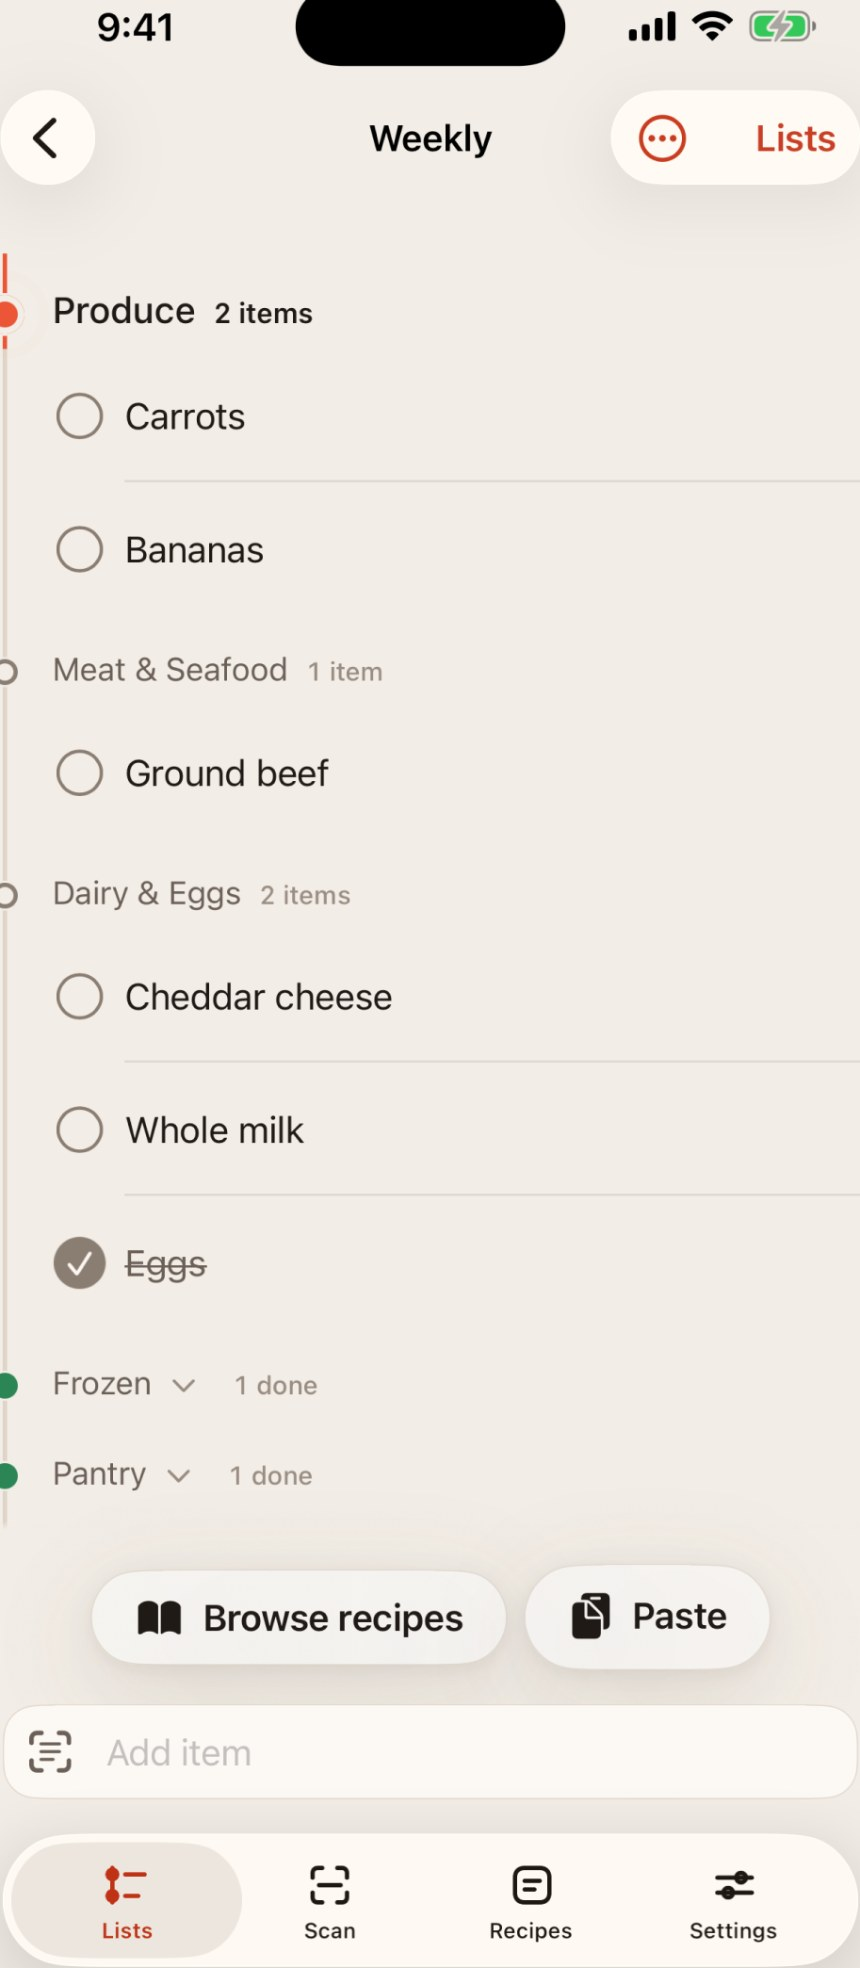
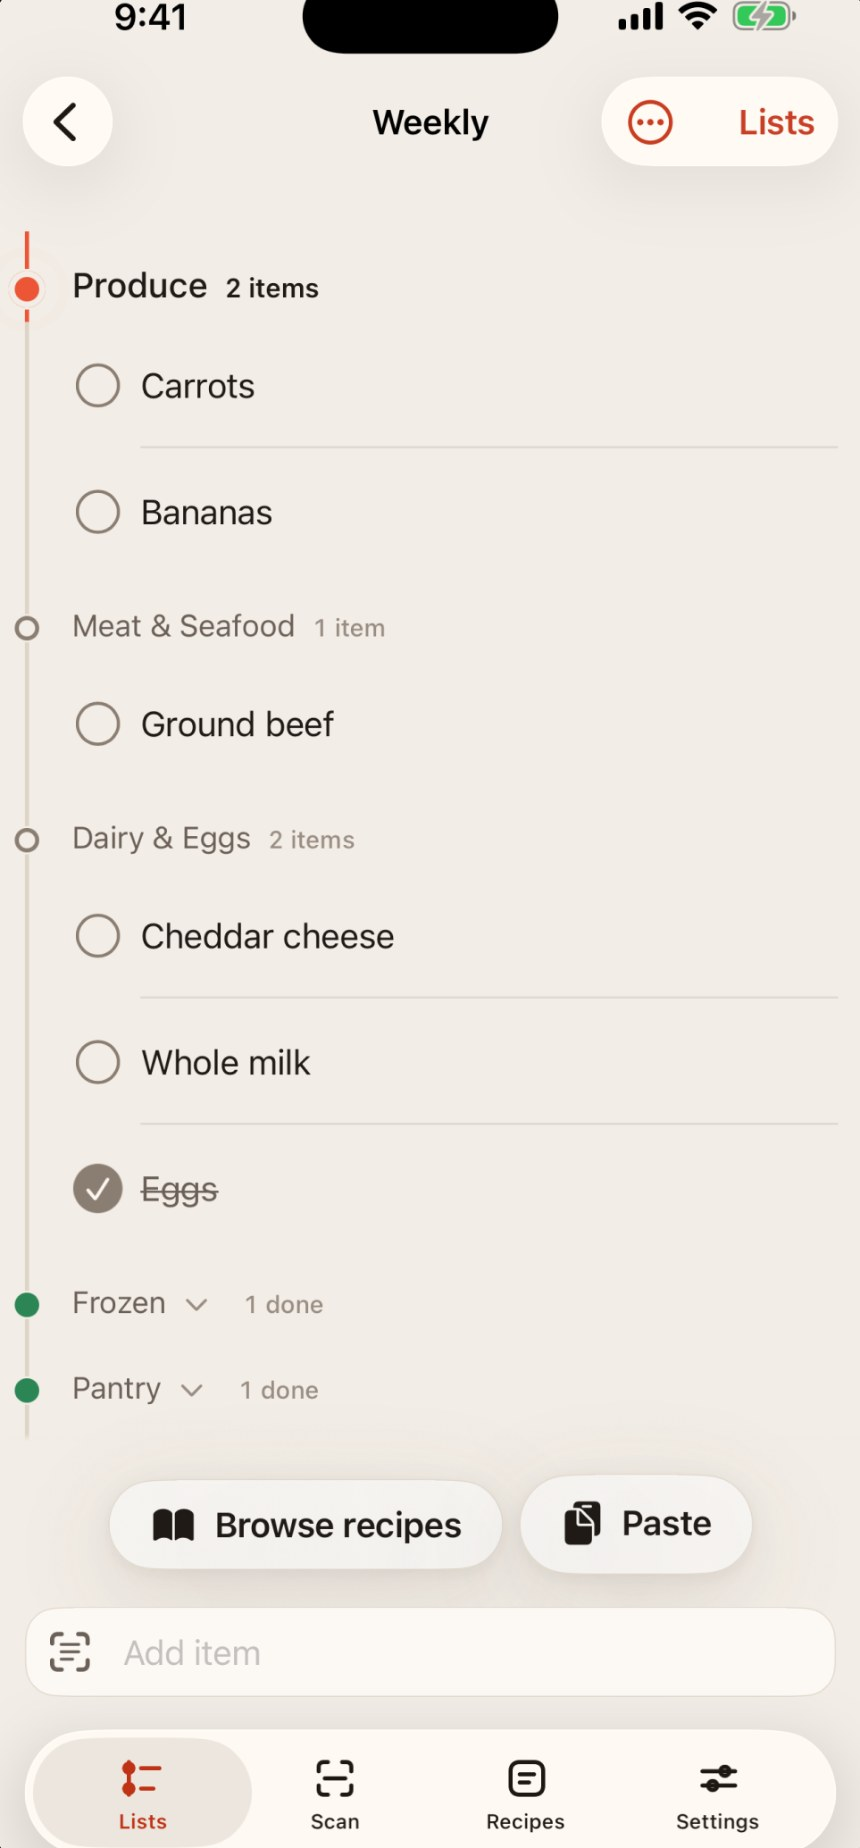
Fix double iPhone bezel on home teaser + clipped timeline dots
Ryan's screenshots caught two real bugs:

1. The home page's Copia teaser card was double-framed -- it wraps its
   image in PhoneShot's own bezel, but shared the same asset file as
   the case study's hero after that switched to the full App Store
   marketing frame (which has its own bezel baked in). Gave the teaser
   its own screen-content-only crop (copia-teaser-screen.jpg) so
   PhoneShot's bezel is the only one again.

2. Decision 1's shopping-screen crop clipped the left-edge category
   timeline (the colored dots next to Produce/Meat & Seafood/etc) in
   half -- the uniform inset used to keep the display's rounded
   corners out of frame cut too close on this particular screen, where
   real UI sits nearer the true edge. Re-cropped with a smaller left/
   right inset and a larger top/bottom one to compensate.

Claude-Session: https://claude.ai/code/session_01XEkgzxDcBknc2Tp3oGGt8n

diff --git a/src/components/CardArt.jsx b/src/components/CardArt.jsx
@@ -1,7 +1,7 @@
 import Particles from '@/components/reactbits/Particles/Particles';
 import InViewMount from './InViewMount';
 import PhoneShot from './PhoneShot';
-import copiaHomeDark from '@/assets/copia-home-dark.jpg';
+import copiaTeaserScreen from '@/assets/copia-teaser-screen.jpg';
 import pickTheOddsScreenshot from '@/assets/picktheodds.png';
 
 // 03 PickTheOdds -- RESOLUTION CAP (Ryan: "can we ensure that all pictures
@@ -52,9 +52,22 @@ export function PickTheOddsCardArt() {
 // pitch (this case study's own title: "A Grocery List Built for the Aisle,
 // Not the Desk") is the grocery-list/route experience, not recipes --
 // recipes are one feature among several, not the thing being sold. Now
-// shows copia-home-dark.jpg, the same real capture already used to open the
-// case study's own hero, so the card and the page it links to lead with the
-// same screen rather than two different first impressions of the app.
+// shows the same Lists screen already used to open the case study's own
+// hero, so the card and the page it links to lead with the same screen
+// rather than two different first impressions of the app.
+//
+// DOUBLE-BEZEL FIX (Ryan: "take the marketing photo out of the iphone frame
+// since there is an iphone frame in the picture already"): the case study's
+// hero later switched from a screen-only crop to the actual App Store
+// marketing frame (its own coral background + headline + device bezel
+// baked in) -- since this teaser shares that same "Lists screen" intent but
+// still wraps its image in PhoneShot's OWN bezel, reusing that same
+// full-frame asset here double-framed it (PhoneShot's metal chassis drawn
+// around an image that already has a bezel drawn into it). This teaser now
+// points at `copia-teaser-screen.jpg` -- a dedicated screen-content-only
+// crop of the same Lists screen, no baked-in frame -- so PhoneShot's bezel
+// is the only one. Keep these two assets separate: don't repoint this at
+// copia-home-dark.jpg again.
 
 // 01 Copia (grocery/recipe iOS app) -- COPIA CASE STUDY (Addendum 4):
 // deliberately NOT another live reactbits.dev canvas. This card's whole
@@ -74,7 +87,7 @@ export function CopiaTeaserArt() {
   return (
     <div className="copia-teaser" aria-hidden="true">
       <div className="copia-teaser__grain" />
-      <PhoneShot src={copiaHomeDark} alt="" />
+      <PhoneShot src={copiaTeaserScreen} alt="" />
     </div>
   );
 }

diff --git a/src/routes/CopiaCaseStudy.jsx b/src/routes/CopiaCaseStudy.jsx
@@ -85,6 +85,16 @@ import copiaPaywall from '@/assets/copia-paywall.jpg';
 // baked-in rendering glitch, a ghost status bar overlaid on the "Read
 // the recipe" button.
 //
+// CROP FIX (Ryan's screenshot: the left-edge category timeline -- the
+// colored dots/line next to "Produce"/"Meat & Seafood"/etc -- was
+// clipped in half): the screen-only crop above used a uniform inset on
+// all four sides to keep the display's own rounded corners out of
+// frame, but this screen's timeline sits close enough to the true left
+// edge that the same inset clipped it. Re-cropped with a smaller
+// left/right inset (still large enough to avoid corner bleed, verified
+// against the source frame directly) and a slightly larger top/bottom
+// inset to compensate.
+//
 // AUDIENCE PASS (Ryan: "these seem engineering heavy... optimized for
 // PRODUCT designers / UX / UI designers"): "Building for trust" and "What
 // testers changed" were rewritten to drop implementation-level detail a
